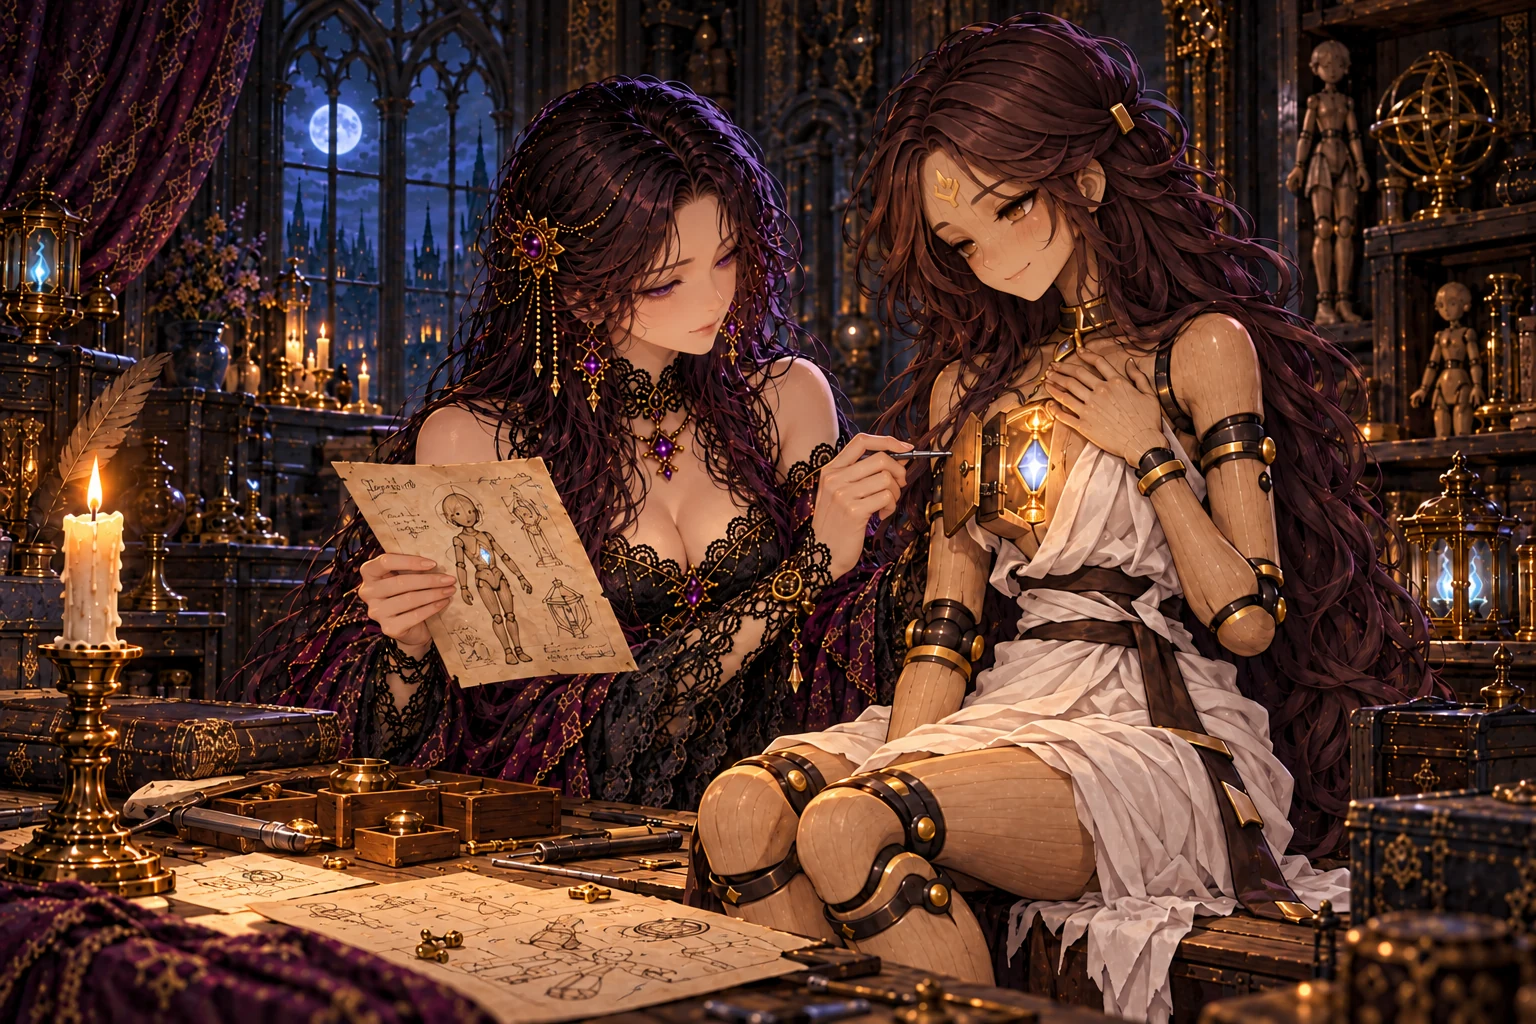
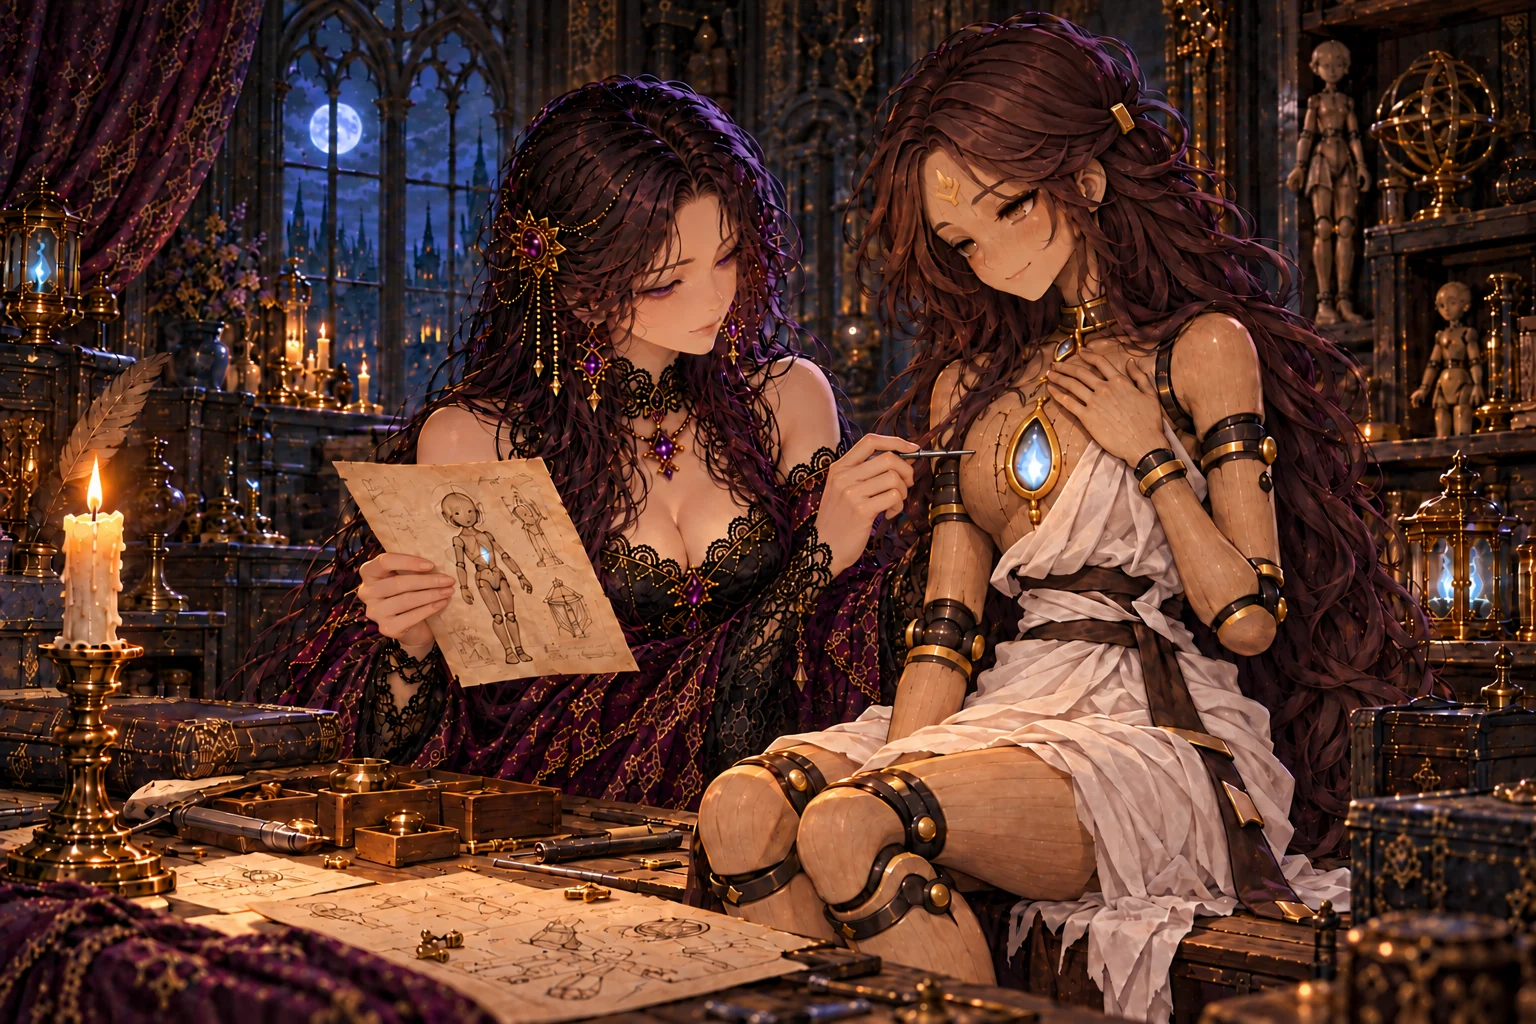
「最初の人形」の余分な手とセラの胸窓を修正

diff --git a/docs/art/codex-story-art-brief.md b/docs/art/codex-story-art-brief.md
@@ -946,6 +946,7 @@ The same throne room in late-afternoon light. The very old king, lap blanket ove
 ```
 
 **irene_firstdoll「最初の人形」** (館の語り)
+- 修正 (2026-10-16): イレーヌの余分な手と腕を除き、写し絵を持つ手と工具を使う手の2本にする。セラの胸は基準シートと同じ、金縁で上が尖り下が丸いしずく形の青白い魂火の窓に統一し、箱形の灯器を除く。(済)
 - 要点: 師が書き写してきた人形の絵を、イレーヌが長いあいだ見る (胸のくぼみに灯籠のガラス)。セラが自分の胸の扉に手を当てる。その夜、イレーヌは人形の絵を手本にセラの胸の継ぎ目を締め直す。「あったかい」。
 ```text
 The same mansion workshop at night. Irene holds a sketch of a small wooden doll with a lantern-glass shard in its chest, comparing it as she gently tightens the joint of Sera's chest door with a fine tool. Sera (as in the Sera reference) sits on the workbench with a hand over her chest, smiling softly, her chest glowing warm. Single white candle on a brass candlestick.

diff --git a/art/story-review/review/chapter9.md b/art/story-review/review/chapter9.md
@@ -233,6 +233,7 @@
 
 **指示書 (4章)**
 
+- 修正 (2026-10-16): イレーヌの余分な手と腕を除き、写し絵を持つ手と工具を使う手の2本にする。セラの胸は基準シートと同じ、金縁で上が尖り下が丸いしずく形の青白い魂火の窓に統一し、箱形の灯器を除く。(済)
 - 要点: 師が書き写してきた人形の絵を、イレーヌが長いあいだ見る (胸のくぼみに灯籠のガラス)。セラが自分の胸の扉に手を当てる。その夜、イレーヌは人形の絵を手本にセラの胸の継ぎ目を締め直す。「あったかい」。
 
 <a name="mem_w37"></a>
